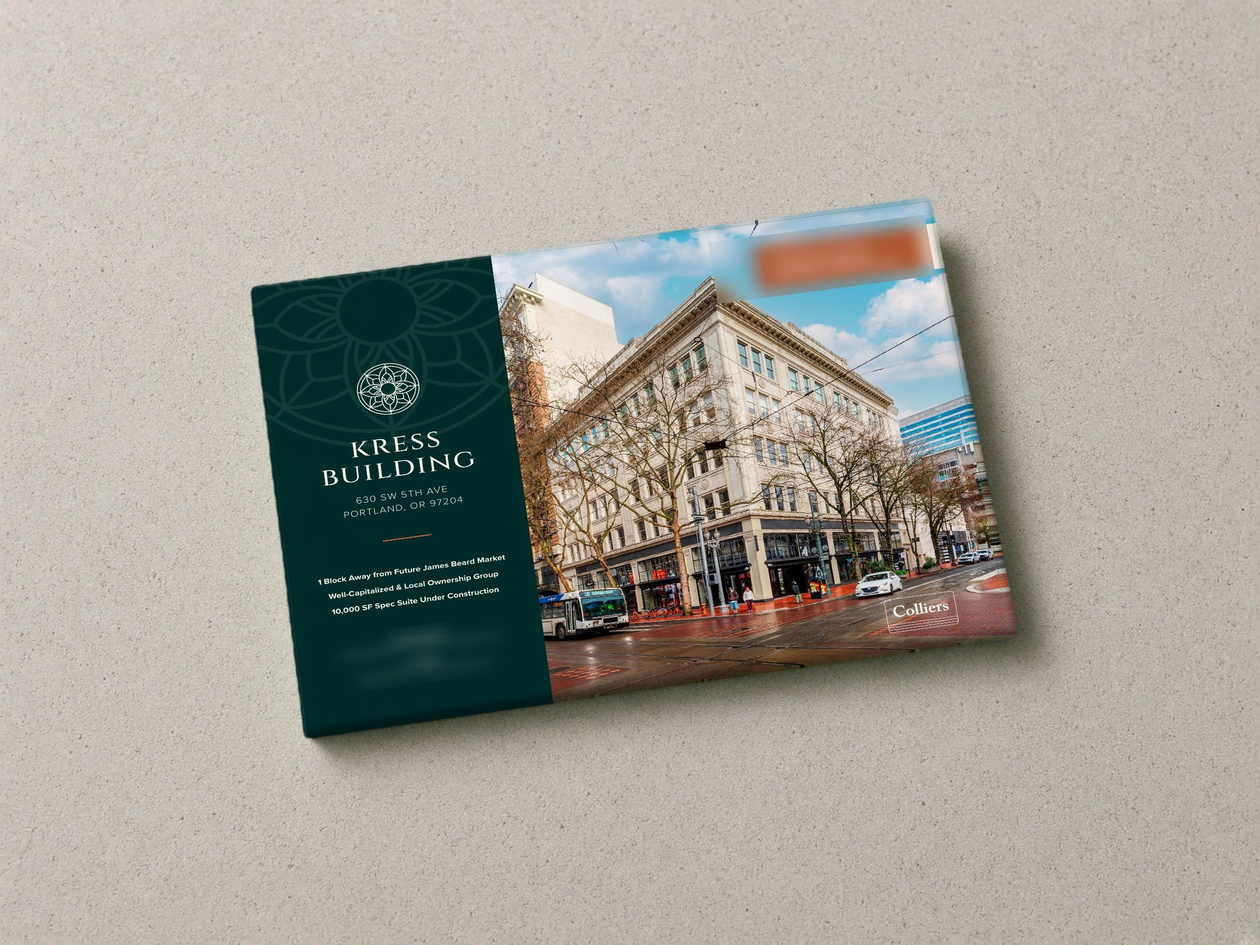
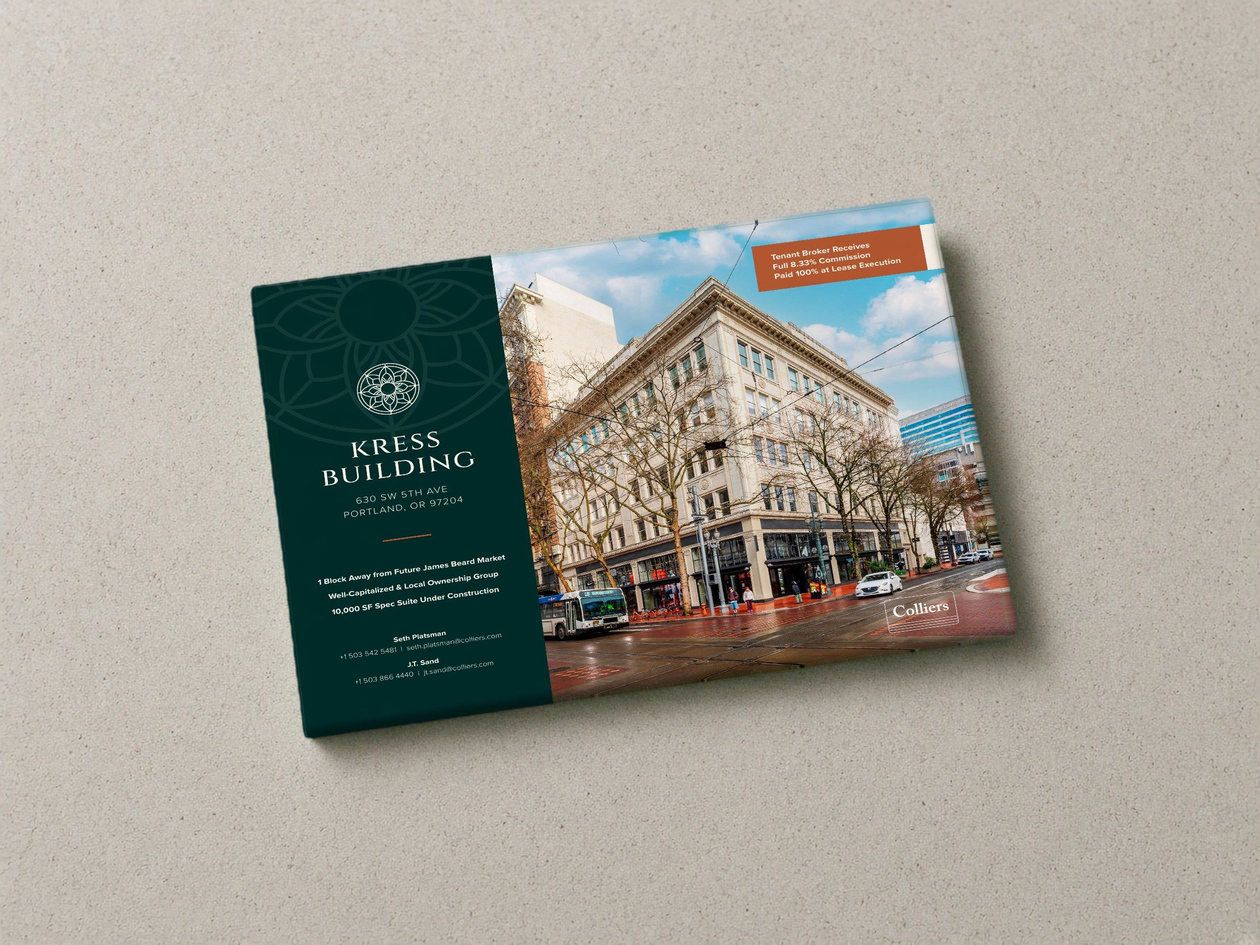
PDX West: Rodrigo's mockup as hero + card on cream; unblur front-page content site-wide (Kress, Pointe, PDX cover) per new rule: only financials confidential

Changed region(s): [[0.5625, 0.2188, 0.75, 0.3438], [0.2812, 0.6562, 0.375, 0.7188]]

diff --git a/work/pdx-west.html b/work/pdx-west.html
@@ -16,7 +16,7 @@
 <div class="g12"><h1 class="case-title t4 c1-8">PDX West Logistics Center</h1><p class="bl c8-13">A leasing flyer for a 938,000 SF Class A distribution building on Portland’s Airport Way.</p></div></section><div class="case-hero" data-name="Hero Mockup"><img src="../assets/img/pdx-west/hero.jpg" alt="PDX West Logistics Center — hero mockup" width="2304" height="1728" decoding="async"></div><section class="wrap case-meta" data-name="Meta"><div class="meta-row"><div><span class="mono-s muted">[Client]</span><span class="bm">Colliers <span class="muted"><span class="ph-t">[[</span>team — confirm<span class="ph-t">]]</span></span></span></div><div><span class="mono-s muted">[Type]</span><span class="bm">Leasing Flyer</span></div><div><span class="mono-s muted">[Location]</span><span class="bm">Portland, OR</span></div><div><span class="mono-s muted">[Year]</span><span class="bm">2026</span></div><div><span class="mono-s muted">[Role]</span><span class="bm"><span class="ph-t">[[</span>Lauren to confirm<span class="ph-t">]]</span></span></div></div></section><section class="dark psr" data-name="Project / Solution / Results">
 <div class="blk"><div class="lab"><span class="mono muted">[01]</span><span class="s">Project</span></div><div class="txt"><p class="s">PDX West Logistics Center is a planned 938,000 SF Class A, cross-loaded distribution building at NE Marine Drive and NE 33rd Drive — Airport Way’s largest available Class A industrial space, half a mile from Portland International Airport, breaking ground in spring 2027. Colliers and developer Capstone Partners needed a leasing flyer that could sell a building still on the drawing board to logistics and distribution tenants and the brokers who represent them: make the scale and specifications legible at a glance, prove the location, and look as considered as the Class A product it describes.</p></div></div>
 <div class="blk"><div class="lab"><span class="mono muted">[02]</span><span class="s">Solution</span></div><div class="txt"><p class="bl">A landscape flyer built on architectural renderings and aerial photography, cut through with oversized, translucent sage-green triangles and anchored by a heavy, wide all-caps display face for the PDX West wordmark and section titles. A restrained palette of sage, slate and white keeps ten information-dense pages calm and recognisably one family.</p><p class="bl">The story moves from the building outward: property highlights set out as a two-column specification sheet under a single headline claim, then the site plan, corporate neighbors, the Airport Way submarket, a location map, the regional logistics hubs, workforce statistics and a West Coast drive-time map. Each page pairs one strong image or map with one tight block of facts, so a broker can find clear height, dock doors, trailer stalls or drive distances in seconds.</p></div></div>
-<div class="blk"><div class="lab"><span class="mono muted">[03]</span><span class="s">Results</span></div><div class="txt"><p class="m"><span class="ph-t">[[</span>Placeholder: Outcome to be confirmed by Lauren / Colliers — do not invent metrics.<span class="ph-t">]]</span></p></div></div></section><section class="case-gallery white" data-name="Gallery"><div class="wrap cg8"><div class="cg-col"><div class="g-block"><div class="g-head"><h2 class="ci-h">Design system</h2></div><div class="gallery"><div class="swatches"><div class="col gap8"><div class="sw" style="background:#76A48E"></div><span class="mono-s">Sage</span><span class="mono-s muted">#76A48E</span></div><div class="col gap8"><div class="sw" style="background:#505F69"></div><span class="mono-s">Slate</span><span class="mono-s muted">#505F69</span></div><div class="col gap8"><div class="sw" style="background:#374B4E"></div><span class="mono-s">Deep Slate</span><span class="mono-s muted">#374B4E</span></div><div class="col gap8"><div class="sw" style="background:#ECF3F0"></div><span class="mono-s">Mist</span><span class="mono-s muted">#ECF3F0</span></div><div class="col gap8"><div class="sw" style="background:#FFFFFF"></div><span class="mono-s">White</span><span class="mono-s muted">#FFFFFF</span></div></div></div></div><div class="g-block"><div class="g-head"><h2 class="ci-h">The printed piece</h2></div><div class="gallery"><div class="g-row"><figure class="pic" style="flex:1.3333 1 0"><img src="../assets/img/pdx-west/mock_spread.jpg" alt="Three inside sheets of the printed flyer fanned out on a table" width="2304" height="1728" decoding="async"></figure><figure class="pic" style="flex:1.3333 1 0"><img src="../assets/img/pdx-west/card.jpg" alt="The printed flyer cover, with a second sheet underneath" width="2304" height="1728" decoding="async"></figure></div><div class="g-row"><figure class="pic" style="flex:1.2945 1 0"><img src="../assets/img/pdx-west/sheets/s01.jpg" alt="Front sheet" width="2000" height="1545" decoding="async"></figure><figure class="pic" style="flex:1.2945 1 0"><img src="../assets/img/pdx-west/sheets/s09.jpg" alt="Back sheet" width="2000" height="1545" decoding="async"></figure></div></div></div><div class="g-block"><div class="g-head"><h2 class="ci-h">Inside the flyer</h2><p class="bm muted">Nine sheets, in the order a tenant or broker reads them — the building, its specifications and site plan, the neighbors and submarket, then access, workforce and reach. Slide them off the stack.</p></div><div class="fb-stage ss-stage" data-name="Sheet stack"><div class="ss-wrap"><div class="ss" tabindex="0" role="group" aria-roledescription="sheet stack" aria-label="PDX West Logistics Center flyer sheets"><figure class="ss-sheet" style="--r:-1.6deg;--x:-10px;--y:6px;z-index:9"><img src="../assets/img/pdx-west/sheets/s01.jpg" alt="PDX West Logistics Center flyer — sheet 1" width="2000" height="1545" draggable="false"></figure><figure class="ss-sheet" style="--r:1.2deg;--x:12px;--y:-8px;z-index:8"><img src="../assets/img/pdx-west/sheets/s02.jpg" alt="PDX West Logistics Center flyer — sheet 2" width="2000" height="1545" draggable="false"></figure><figure class="ss-sheet" style="--r:-0.6deg;--x:-4px;--y:-12px;z-index:7"><img src="../assets/img/pdx-west/sheets/s03.jpg" alt="PDX West Logistics Center flyer — sheet 3" width="2000" height="1545" draggable="false"></figure><figure class="ss-sheet" style="--r:2.0deg;--x:8px;--y:10px;z-index:6"><img src="../assets/img/pdx-west/sheets/s04.jpg" alt="PDX West Logistics Center flyer — sheet 4" width="2000" height="1545" draggable="false"></figure><figure class="ss-sheet" style="--r:-2.2deg;--x:-14px;--y:2px;z-index:5"><img src="../assets/img/pdx-west/sheets/s05.jpg" alt="PDX West Logistics Center flyer — sheet 5" width="2000" height="1545" draggable="false"></figure><figure class="ss-sheet" style="--r:0.8deg;--x:4px;--y:12px;z-index:4"><img src="../assets/img/pdx-west/sheets/s06.jpg" alt="PDX West Logistics Center flyer — sheet 6" width="2000" height="1545" draggable="false"></figure><figure class="ss-sheet" style="--r:-1.0deg;--x:10px;--y:-4px;z-index:3"><img src="../assets/img/pdx-west/sheets/s07.jpg" alt="PDX West Logistics Center flyer — sheet 7" width="2000" height="1545" draggable="false"></figure><figure class="ss-sheet" style="--r:1.6deg;--x:-8px;--y:8px;z-index:2"><img src="../assets/img/pdx-west/sheets/s08.jpg" alt="PDX West Logistics Center flyer — sheet 8" width="2000" height="1545" draggable="false"></figure><figure class="ss-sheet" style="--r:-1.6deg;--x:-10px;--y:6px;z-index:1"><img src="../assets/img/pdx-west/sheets/s09.jpg" alt="PDX West Logistics Center flyer — sheet 9" width="2000" height="1545" draggable="false"></figure></div></div>
+<div class="blk"><div class="lab"><span class="mono muted">[03]</span><span class="s">Results</span></div><div class="txt"><p class="m"><span class="ph-t">[[</span>Placeholder: Outcome to be confirmed by Lauren / Colliers — do not invent metrics.<span class="ph-t">]]</span></p></div></div></section><section class="case-gallery white" data-name="Gallery"><div class="wrap cg8"><div class="cg-col"><div class="g-block"><div class="g-head"><h2 class="ci-h">Design system</h2></div><div class="gallery"><div class="swatches"><div class="col gap8"><div class="sw" style="background:#76A48E"></div><span class="mono-s">Sage</span><span class="mono-s muted">#76A48E</span></div><div class="col gap8"><div class="sw" style="background:#505F69"></div><span class="mono-s">Slate</span><span class="mono-s muted">#505F69</span></div><div class="col gap8"><div class="sw" style="background:#374B4E"></div><span class="mono-s">Deep Slate</span><span class="mono-s muted">#374B4E</span></div><div class="col gap8"><div class="sw" style="background:#ECF3F0"></div><span class="mono-s">Mist</span><span class="mono-s muted">#ECF3F0</span></div><div class="col gap8"><div class="sw" style="background:#FFFFFF"></div><span class="mono-s">White</span><span class="mono-s muted">#FFFFFF</span></div></div></div></div><div class="g-block"><div class="g-head"><h2 class="ci-h">The printed piece</h2></div><div class="gallery"><div class="g-row"><figure class="pic" style="flex:1.3333 1 0"><img src="../assets/img/pdx-west/mock_spread.jpg" alt="Three inside sheets of the printed flyer fanned out on a table" width="2304" height="1728" decoding="async"></figure><figure class="pic" style="flex:1.3333 1 0"><img src="../assets/img/pdx-west/mock_cover.jpg" alt="The printed flyer cover, with a second sheet underneath" width="2304" height="1728" decoding="async"></figure></div><div class="g-row"><figure class="pic" style="flex:1.2945 1 0"><img src="../assets/img/pdx-west/sheets/s01.jpg" alt="Front sheet" width="2000" height="1545" decoding="async"></figure><figure class="pic" style="flex:1.2945 1 0"><img src="../assets/img/pdx-west/sheets/s09.jpg" alt="Back sheet" width="2000" height="1545" decoding="async"></figure></div></div></div><div class="g-block"><div class="g-head"><h2 class="ci-h">Inside the flyer</h2><p class="bm muted">Nine sheets, in the order a tenant or broker reads them — the building, its specifications and site plan, the neighbors and submarket, then access, workforce and reach. Slide them off the stack.</p></div><div class="fb-stage ss-stage" data-name="Sheet stack"><div class="ss-wrap"><div class="ss" tabindex="0" role="group" aria-roledescription="sheet stack" aria-label="PDX West Logistics Center flyer sheets"><figure class="ss-sheet" style="--r:-1.6deg;--x:-10px;--y:6px;z-index:9"><img src="../assets/img/pdx-west/sheets/s01.jpg" alt="PDX West Logistics Center flyer — sheet 1" width="2000" height="1545" draggable="false"></figure><figure class="ss-sheet" style="--r:1.2deg;--x:12px;--y:-8px;z-index:8"><img src="../assets/img/pdx-west/sheets/s02.jpg" alt="PDX West Logistics Center flyer — sheet 2" width="2000" height="1545" draggable="false"></figure><figure class="ss-sheet" style="--r:-0.6deg;--x:-4px;--y:-12px;z-index:7"><img src="../assets/img/pdx-west/sheets/s03.jpg" alt="PDX West Logistics Center flyer — sheet 3" width="2000" height="1545" draggable="false"></figure><figure class="ss-sheet" style="--r:2.0deg;--x:8px;--y:10px;z-index:6"><img src="../assets/img/pdx-west/sheets/s04.jpg" alt="PDX West Logistics Center flyer — sheet 4" width="2000" height="1545" draggable="false"></figure><figure class="ss-sheet" style="--r:-2.2deg;--x:-14px;--y:2px;z-index:5"><img src="../assets/img/pdx-west/sheets/s05.jpg" alt="PDX West Logistics Center flyer — sheet 5" width="2000" height="1545" draggable="false"></figure><figure class="ss-sheet" style="--r:0.8deg;--x:4px;--y:12px;z-index:4"><img src="../assets/img/pdx-west/sheets/s06.jpg" alt="PDX West Logistics Center flyer — sheet 6" width="2000" height="1545" draggable="false"></figure><figure class="ss-sheet" style="--r:-1.0deg;--x:10px;--y:-4px;z-index:3"><img src="../assets/img/pdx-west/sheets/s07.jpg" alt="PDX West Logistics Center flyer — sheet 7" width="2000" height="1545" draggable="false"></figure><figure class="ss-sheet" style="--r:1.6deg;--x:-8px;--y:8px;z-index:2"><img src="../assets/img/pdx-west/sheets/s08.jpg" alt="PDX West Logistics Center flyer — sheet 8" width="2000" height="1545" draggable="false"></figure><figure class="ss-sheet" style="--r:-1.6deg;--x:-10px;--y:6px;z-index:1"><img src="../assets/img/pdx-west/sheets/s09.jpg" alt="PDX West Logistics Center flyer — sheet 9" width="2000" height="1545" draggable="false"></figure></div></div>
 <div class="fb-controls"><button class="fb-btn ss-prev" aria-label="Previous sheet">←</button><span class="mono fb-counter ss-counter" aria-live="polite">Sheet 01 / 09</span><button class="fb-btn ss-next" aria-label="Next sheet">→</button></div>
 <div class="fb-foot"><span class="mono-s muted fb-hint"><span class="hd">Click or drag the top sheet, or use the ← → keys</span><span class="hm">Swipe the sheet or tap the arrows</span></span></div><p class="mono-s ss-note">Confidential pages — pricing, financials, rent comps and broker contacts — are left out; contact details are blurred.</p></div></div></div></div></section><section class="case-next" data-name="Next Project"><div class="wrap cg8">
 <div class="cn-head"><h2 class="cn-title">Next Project</h2><a class="btn sec sm" href="../works.html">All Works <span aria-hidden="true">→</span></a></div>

diff --git a/_src/pdx_rodrigo_mockup.py b/_src/pdx_rodrigo_mockup.py
@@ -1,0 +1,71 @@
+"""PDX West hero + card from Rodrigo's mockup (Nov 23): standing flyer cover, tablet with Property Highlights, flat back sheet.
+Source (white studio background): /workspace/lauren-case-studies/mockups/pdx-west_rodrigo-mockup.png (1448x1086).
+- Nothing is blurred: per Rodrigo (Nov 23) only financials are confidential; broker contacts stay readable.
+- The white background becomes the cream surface used by flyer_mockups (same tone/texture as before): background and
+  shadow pixels are MULTIPLIED onto the cream (so the soft studio shadows carry over and anti-aliased edges composite
+  cleanly, no white halo); object pixels are kept as they are. Objects = saturated/dark pixels (holes filled) + hand-traced
+  polygons for the neutral parts (standing flyer page stack/easel, flat sheet with its white margin and page edge).
+Run: python3 _src/pdx_rodrigo_mockup.py   (also run at the end of flyer_mockups.pdx())"""
+import os, numpy as np, cv2
+from PIL import Image, ImageDraw, ImageFilter
+import flyer_mockups as F
+ROOT = F.ROOT
+SRC = '/workspace/lauren-case-studies/mockups/pdx-west_rodrigo-mockup.png'
+CONTACTS_TRACED = [[(128, 634), (566, 598), (568, 662), (130, 706)],      # standing cover: 3 broker blocks
+            [(450, 956), (968, 924), (970, 992), (452, 1014)]]     # flat back sheet: 3 broker blocks
+CONTACTS = []   # Nov 23, Rodrigo: front-page contacts are not confidential -> nothing blurred (traced quads kept above in case)
+STAND = [(47, 123), (30, 129), (31, 300), (27, 560), (27, 704), (66, 702), (73, 722), (85, 731), (100, 733), (140, 731), (140, 127)]
+FLAT = [(415, 709), (1194, 652), (1405, 989), (1404, 997), (425, 1053), (423, 1050)]
+BG = 253.0   # studio white level of the source
+
+def poly_mask(pts, size, ss=4):
+    m = Image.new('L', (size[0] * ss, size[1] * ss), 0)
+    ImageDraw.Draw(m).polygon([(x * ss, y * ss) for x, y in pts], fill=255)
+    return np.asarray(m.resize(size, Image.BOX), np.float32) / 255
+
+def blur_quads(im):
+    for q in CONTACTS:
+        xs, ys = [p[0] for p in q], [p[1] for p in q]
+        b = (min(xs) - 4, min(ys) - 4, max(xs) + 4, max(ys) + 4)
+        reg = im.crop(b); m = poly_mask([(x - b[0], y - b[1]) for x, y in q], reg.size)
+        panel = np.median(np.asarray(reg).reshape(-1, 3)[m.reshape(-1) > .5], 0)       # panel colour fills outside the quad
+        r = np.asarray(reg, np.float32) * m[..., None] + panel * (1 - m[..., None])
+        reg2 = Image.fromarray(r.astype(np.uint8))
+        small = reg2.resize((max(1, reg2.width // 24), max(1, reg2.height // 24)), Image.BILINEAR)
+        reg2 = small.resize(reg2.size, Image.BILINEAR).filter(ImageFilter.GaussianBlur(max(6, reg2.height // 6)))
+        mf = np.asarray(Image.fromarray((m * 255).astype(np.uint8)).filter(ImageFilter.GaussianBlur(1.2)), np.float32)[..., None] / 255
+        out = np.asarray(reg2, np.float32) * mf + np.asarray(reg, np.float32) * (1 - mf)
+        im.paste(Image.fromarray(out.astype(np.uint8)), b[:2])
+    return im
+
+def object_alpha(a):
+    mn, mx = a.min(2).astype(int), a.max(2).astype(int)
+    m = (((mx - mn) > 14) | (mn < 90)).astype(np.uint8) * 255
+    m = cv2.morphologyEx(m, cv2.MORPH_CLOSE, np.ones((7, 7), np.uint8))
+    ff = m.copy(); h, w = m.shape; cv2.floodFill(ff, np.zeros((h + 2, w + 2), np.uint8), (0, 0), 255); m = m | (~ff)
+    size = (w, h)
+    m = np.maximum(m.astype(np.float32) / 255, np.maximum(poly_mask(STAND, size), poly_mask(FLAT, size)))
+    m = cv2.erode((m > .5).astype(np.uint8), np.ones((3, 3), np.uint8)).astype(np.float32)
+    return cv2.GaussianBlur(m, (0, 0), 0.7)
+
+def compose(src, alpha, scale, center, seed=11, light=(0.35, 0.25)):
+    cv = np.asarray(F.surface(seed=seed, light=light), np.float32)
+    w, h = round(src.width * scale), round(src.height * scale)
+    s = np.asarray(src.resize((w, h), Image.LANCZOS), np.float32)
+    al = np.asarray(Image.fromarray((alpha * 255).astype(np.uint8)).resize((w, h), Image.LANCZOS), np.float32)[..., None] / 255
+    x0, y0 = round(center[0] - w / 2), round(center[1] - h / 2)
+    reg = cv[y0:y0 + h, x0:x0 + w]
+    mult = reg * np.clip(s / BG, 0, 1)
+    cv[y0:y0 + h, x0:x0 + w] = s * al + mult * (1 - al)
+    return Image.fromarray(np.clip(cv, 0, 255).astype(np.uint8))
+
+def main():
+    src = blur_quads(Image.open(SRC).convert('RGB'))
+    alpha = object_alpha(np.asarray(src))
+    # hero: the case hero shows a wide central band (~58% of the height at desktop), so keep all three objects inside it
+    F.out(compose(src, alpha, 0.93, (1152, 880)), 'pdx-west', 'hero.jpg')
+    # card (4:3, shown whole on Home / Works / Next Project): Kress-like breathing room
+    F.out(compose(src, alpha, 1.36, (1152, 864), seed=3, light=(0.3, 0.2)), 'pdx-west', 'card.jpg')
+    return src, alpha
+
+if __name__ == '__main__': main()

diff --git a/_src/build.py b/_src/build.py
@@ -349,7 +349,7 @@ def pdx_blocks(r):
         return '<div class="g-row">' + ''.join(pic(I + f, a, r, size(I + f)[0] / size(I + f)[1]) for f, a in fs) + '</div>'
     sw = ''.join(f'<div class="col gap8"><div class="sw" style="background:{h}"></div><span class="mono-s">{n}</span><span class="mono-s muted">{h}</span></div>' for n, h in PDX_PAL)
     return (gsec(f'<div class="gallery"><div class="swatches">{sw}</div></div>', 'Design system')
-            + gsec(f'<div class="gallery">{row(("mock_spread.jpg", "Three inside sheets of the printed flyer fanned out on a table"), ("card.jpg", "The printed flyer cover, with a second sheet underneath"))}{row(("sheets/s01.jpg", "Front sheet"), ("sheets/s09.jpg", "Back sheet"))}</div>', 'The printed piece')
+            + gsec(f'<div class="gallery">{row(("mock_spread.jpg", "Three inside sheets of the printed flyer fanned out on a table"), ("mock_cover.jpg", "The printed flyer cover, with a second sheet underneath"))}{row(("sheets/s01.jpg", "Front sheet"), ("sheets/s09.jpg", "Back sheet"))}</div>', 'The printed piece')
             + gsec(sheet_stack('pdx-west', 'PDX West Logistics Center', 9, r, LOG['pdx-west']['note']), 'Inside the flyer', 'Nine sheets, in the order a tenant or broker reads them — the building, its specifications and site plan, the neighbors and submarket, then access, workforce and reach. Slide them off the stack.'))
 
 def case(p):
@@ -385,7 +385,7 @@ if __name__ == '__main__':
     home(); works(); about(); contact()
     for p in ALL: case(p)
     md = ['# Confidentiality log (generated by _src/build.py from _src/confidentiality.py)\n',
-          'Rule: leave anything confidential out; if leaving it out would look bad, blur it. The site is PUBLIC (GitHub Pages), marked noindex.\n']
+          'Rule: leave anything confidential out; if leaving it out would look bad, blur it. The site is PUBLIC (GitHub Pages), marked noindex.\n\n**Updated rule (Rodrigo, Nov 23):** "Anything in the front pages is not confidential. Confidential means financials." Covers, thumbnails and hero mockups are shown unblurred (contacts, headlines, addresses, broker strips). Only financial data (pricing, rents, rent comps, operating figures, taxes, deal financials such as Madison section 03) stays blurred or omitted. Interior pages blurred only for contacts are listed below and wait for confirmation.\n']
     for slug, d in LOG.items():
         md.append(f"## {BY[slug]['title'] if slug in BY else slug}\n")
         md.append('- **Blurred:** ' + ('; '.join(d.get('blurred') or []) or 'nothing') )

diff --git a/_src/confidentiality.py b/_src/confidentiality.py
@@ -5,10 +5,10 @@ Rule (Rodrigo): leave anything confidential out; if leaving it out would look ba
 STD = 'Confidential pages — pricing, financials, rent comps and broker contacts — are left out; contact details are blurred.'
 LOG = {
  'pdx-west': dict(note=STD,
-    blurred=['p01 cover: broker names/phones/emails strip (sheet stack, printed piece and the card thumbnail)'],
-    omitted=['page 10 back cover: broker names, phones and emails + disclaimer (no pricing, financials or rent comps anywhere in the flyer)'], mockup='self-made flyer mockups (hero, card, fanned sheets) are built from the blurred sheets'),
+    blurred=['none — Nov 23: cover broker strip unblurred (sheet stack, printed piece); Rodrigo\'s hero/card mockup shown with contacts readable (front pages are not confidential)'],
+    omitted=['page 10 back cover: broker names, phones and emails + disclaimer (no pricing, financials or rent comps anywhere in the flyer)'], mockup='hero + card = Rodrigo\'s mockup on the cream surface (unblurred); printed piece = self-made mockups from the sheets'),
  'kress-building': dict(note=STD,
-    blurred=['p01 cover: commission callout + broker contacts','p02: "$28/SF FSG" rent figure','hero mockup: commission callout + contacts'],
+    blurred=['p02: "$28/SF FSG" rent figure (Nov 23: p01 cover + hero mockup unblurred — commission callout and broker contacts are front-page content)'],
     omitted=['page 05','pages 07–08 floor plans carrying the $28/SF FSG rate','page 10 broker contacts']),
  'nomad': dict(note='Confidential chapters — pricing, financials, rent comps and broker contacts — are left out.',
     blurred=['none (Rodrigo: "remove the blur" on the flip-book pages)'],
@@ -26,7 +26,7 @@ LOG = {
     blurred=['p01 cover: "75 Sites | 100% Occupied | $1,035 Avg. Rent" line (also blurred on the hero mockup)'],
     omitted=['pages 04, 05, 07 (summary/offering text)','pages 13–15 financials','page 17 comps','pages 19–20 statistics','page 21 rent-control text','page 22 contacts']),
  'pointe-at-bridgeport': dict(note=STD,
-    blurred=['p01 cover: broker contacts strip (also blurred on the hero mockup)'],
+    blurred=['none — Nov 23: p01 cover broker strip + hero mockup unblurred (front page)'],
     omitted=['pages 5–6 demographics','page 9 broker contacts']),
  'portland-office-market-report': dict(note='Data pages (statistics, sale prices, tenants) are left out of this portfolio.',
     blurred=[], omitted=['pages 03–16 market data and sales']),

diff --git a/_src/flyer_mockups.py b/_src/flyer_mockups.py
@@ -1,7 +1,6 @@
 """Self-made flyer mockups (no stock): thin printed sheets on a textured surface, with lifted corners and soft shadows.
 Run: python3 _src/flyer_mockups.py   (needs assets/img/<slug>/sheets/sNN.jpg from flyer_sheets.py; cover contacts already blurred)
-Writes for PDX West: hero.jpg (2304x1728, key content inside the 16:9 band the hero shows), card.jpg (Kress-style
-thumbnail) and mock_spread.jpg (three inside sheets fanned out, for 'The printed piece')."""
+Writes for PDX West: mock_cover.jpg (cover sheet with a second sheet under it) and mock_spread.jpg (three inside sheets fanned out, for 'The printed piece')."""
 import os, math, numpy as np
 from PIL import Image, ImageDraw, ImageFilter
 ROOT = os.path.dirname(os.path.dirname(os.path.abspath(__file__)))
@@ -99,22 +98,19 @@ def out(im, slug, name): p = os.path.join(ROOT, 'assets', 'img', slug, name); im
 
 def pdx():
     S = sheets('pdx-west')
-    # hero: cover on top of the property-highlights sheet; content kept inside the central 16:9 band
-    cv = surface(seed=11, light=(0.35, 0.25))
-    place(cv, S[1], rect(1300, 820, 1120, -7), shadow=.8)
-    place(cv, S[0], rect(1050, 880, 1180, 3.5), lift_corner=2, lift=34)
-    out(cv, 'pdx-west', 'hero.jpg')
+    # hero.jpg + card.jpg: Rodrigo's mockup, composited onto the cream surface by pdx_rodrigo_mockup.py (Nov 23)
     # card: Kress framing, single thin cover with a lifted corner and a second sheet peeking underneath
     k = W / 1024
     cv = surface(seed=3)
     place(cv, S[1], rect(498 * k, 372 * k, 540 * k, 3.0), shadow=.6)
     place(cv, S[0], rect(532 * k, 400 * k, 565 * k, -6.5), lift_corner=2, lift=42)
-    out(cv, 'pdx-west', 'card.jpg')
+    out(cv, 'pdx-west', 'mock_cover.jpg')   # printed piece; card.jpg + hero.jpg now come from pdx_rodrigo_mockup.py
     # printed piece: three inside sheets fanned out
     cv = surface(seed=21, light=(0.5, 0.2))
     place(cv, S[2], rect(700, 930, 1040, -7), shadow=.8)
     place(cv, S[7], rect(1610, 930, 1040, 7), shadow=.8)
     place(cv, S[4], rect(1155, 870, 1180, 1.5), lift_corner=2, lift=30)
     out(cv, 'pdx-west', 'mock_spread.jpg')
+    import pdx_rodrigo_mockup; pdx_rodrigo_mockup.main()   # Rodrigo's mockup (Nov 23) replaces hero.jpg + card.jpg
 
 if __name__ == '__main__': pdx()

diff --git a/_src/images.py b/_src/images.py
@@ -40,8 +40,10 @@ def page(folder, n):
     raise FileNotFoundError(folder+str(n))
 
 # slug: (pdf folder, hero mockup, [(page, blur boxes)])
+# Rule (Rodrigo, Nov 23): front-page/cover content (contacts, headlines, addresses, broker strips) is NOT confidential;
+# only financial data (pricing, rents, rent comps, operating figures, taxes, deal financials) is blurred or omitted.
 RE={
- 'kress-building':('kress-building','kress-building_brochure.jpg',[(1,[(0.725,0.05,0.982,0.163),(0.035,0.805,0.32,0.92)]),(2,[(0.068,0.866,0.175,0.897)]),(3,[]),(4,[]),(6,[]),(9,[])]),
+ 'kress-building':('kress-building','kress-building_brochure.jpg',[(1,[]),(2,[(0.068,0.866,0.175,0.897)]),(3,[]),(4,[]),(6,[]),(9,[])]),
  'pdx-west':('pdx-west-flyer',None,[]),  # sheets: _src/flyer_sheets.py; hero, card, mock_spread: _src/flyer_mockups.py
  'the-grid':('kirkland-405-brand','the-grid_lobby-sign.jpg',[(i,[]) for i in range(1,9)]),
  'pacific-center':('pacific-center-flyer','pacific-center_poster.jpg',[(i,[]) for i in range(1,6)]),
@@ -49,7 +51,7 @@ RE={
  'madison-plaza':('madison-plaza-om','madison-plaza_om-cover.jpg',[]),  # page gallery replaced by the Nomad-style book: see _src/madison_book.py
  'redmond-gateway':('redmond-assemblage-om','redmond-gateway_om-stack.jpg',[(1,[]),(2,[]),(6,[(0.035,0.24,0.315,0.43)]),(7,[(0.035,0.24,0.315,0.43)]),(14,[]),(15,[])]),  # parcel text names owners + lease dates -> blurred),
  'springwood':('springwood-om','springwood_om-cover.jpg',[(1,[(0.581,0.894,0.938,0.927)]),(2,[]),(3,[]),(6,[]),(8,[]),(9,[]),(10,[]),(11,[]),(12,[]),(16,[]),(18,[])]),
- 'pointe-at-bridgeport':('the-pointe-bridgeport','the-pointe_flyer-stack.jpg',[(1,[(0.049,0.852,0.557,0.941)]),(2,[]),(3,[]),(4,[]),(7,[]),(8,[])]),
+ 'pointe-at-bridgeport':('the-pointe-bridgeport','the-pointe_flyer-stack.jpg',[(1,[]),(2,[]),(3,[]),(4,[]),(7,[]),(8,[])]),
  'portland-office-market-report':('portland-office-report-q1-2026','portland-office-report_laptop.jpg',[(1,[]),(2,[])]),
 }
 NOMAD_FLIP=['p00_cover.jpg','page-03_L.jpg','page-03_R.jpg','page-07_L.jpg','page-07_R.jpg','page-10_L.jpg','page-10_R.jpg','page-11_L.jpg','page-11_R.jpg','page-12_L.jpg','page-12_R.jpg','page-15_L.jpg','page-15_R.jpg','page-17_L.jpg','page-19_R.jpg','page-22_L.jpg','page-22_R.jpg']

diff --git a/_src/flyer_sheets.py b/_src/flyer_sheets.py
@@ -6,7 +6,7 @@ import os, subprocess, tempfile, glob
 from PIL import Image
 from images import save, blur
 FLYERS = {'leftbank': ('/workspace/lauren-case-studies/source/extracted/Leftbank_Flyer.pdf', range(1, 7), {}),
-          'pdx-west': ('/workspace/lauren-case-studies/source/extracted/PDXWestFlyer_For Lease.pdf', range(1, 10), {1: [(0.039, 0.843, 0.586, 0.932)]})}  # PDX p10 = broker contacts -> omitted; p1 contacts blurred  # slug: (pdf, pages, {page: blur boxes})
+          'pdx-west': ('/workspace/lauren-case-studies/source/extracted/PDXWestFlyer_For Lease.pdf', range(1, 10), {})}  # PDX p10 = broker contacts -> omitted; p1 broker strip unblurred Nov 23 (front pages not confidential)  # slug: (pdf, pages, {page: blur boxes})
 def main():
     for slug, (pdf, pages, boxes) in FLYERS.items():
         with tempfile.TemporaryDirectory() as d:

diff --git a/AI-HANDOFF.md b/AI-HANDOFF.md
@@ -66,11 +66,18 @@ Read this first if you are an AI assistant (Claude, ChatGPT, Cursor, etc.) conti
 - Swatches: #76A48E Sage, #505F69 Slate, #374B4E Deep Slate, #ECF3F0 Mist, #FFFFFF White.
 - There is no signage for PDX West; it is a leasing flyer only. Don't mention signs or billboards in its copy or alt text.
 - Mockups are all self-made by `_src/flyer_mockups.py` from the already-blurred sheets, with no stock and no props. The pen was removed on Nov 20 because it looked fake. Each sheet is one exact perspective warp rendered at 4× and downsampled with LANCZOS. The source is edge-padded, so the anti-aliased edge keeps the artwork's own colour: no rim, fringe or seams. Shadows are multiply layers (ambient, contact and two soft offsets, with the light from the top-left). A raised corner is suggested only through light and shadow. The beige surface is procedural.
-  - `hero.jpg`: the cover on top of the property-highlights sheet, on beige. 2304×1728; the key content sits inside the 16:9 band that the hero crop shows.
+  - `hero.jpg` + `card.jpg` (Nov 23): Rodrigo's own mockup (standing cover, tablet with Property Highlights, flat back sheet), source `/workspace/lauren-case-studies/mockups/pdx-west_rodrigo-mockup.png`. `_src/pdx_rodrigo_mockup.py` puts it on the cream surface. Nothing is blurred: contacts are readable per the Nov 23 rule; the traced contact quads are kept as `CONTACTS_TRACED`. Background and shadow pixels are multiplied onto the cream, so the studio shadows carry over and the edges have no white halo. Object pixels are kept as they are. The object mask is saturated or dark pixels with the holes filled, plus traced polygons for the standing pad's page stack and easel and for the flat sheet. In the hero, the objects sit inside the wide central band the case-hero crop shows (about 58% of the height). In the card (4:3, shown whole), they fill about 86% of the width. If Rodrigo sends a new version of this mockup, re-trace `STAND`/`FLAT` in that script.
   - `mock_spread.jpg` (The printed piece): three inside sheets (site plan, submarket, building) fanned out.
-  - `card.jpg`: Kress framing; one thin cover sheet with a lifted corner and a second sheet peeking out underneath.
-- The printed piece: mock_spread + card, then the flat front sheet (s01) and back sheet (s09).
+  - `mock_cover.jpg` (The printed piece; this was the card until Nov 23): one thin cover sheet with a lifted corner and a second sheet peeking out underneath.
+- The printed piece: mock_spread + mock_cover, then the flat front sheet (s01) and back sheet (s09).
 - Sheet stack shows PDF pages 1–9; page 1's broker strip is blurred. Page 10 (back cover with broker contacts) is omitted.
 - `flyer_sheets.py` re-runs `flyer_mockups.pdx()` after rendering the sheets.
 - Project and Solution copy is written from the flyer (no rents, prices or deal figures). Results stays `[[ ]]`.
 - `sheet_stack(..., note)` prints the confidentiality line under the stack. Leftbank and PDX pass `LOG[slug]['note']` (the STD text).
+
+## Confidentiality rule change (Rodrigo, Nov 23)
+- Rodrigo: "Anything in the front pages is not confidential. Confidential means financials."
+- Covers, thumbnails, cards and hero mockups are shown unblurred: contacts, headlines, addresses, broker strips and the Kress commission callout. Done in `/workspace/mk/run.py` (Kress, Pointe mockups), `_src/images.py` (Kress/Pointe p01), `_src/flyer_sheets.py` (PDX s01) and `_src/pdx_rodrigo_mockup.py`.
+- Still blurred or omitted, because it's financial: Kress p02 "$28/SF FSG"; the Springwood cover "$1,035 Avg. Rent" line (cover and hero); Madison section 03 and its financial blurs; omitted rent, comp and financial pages everywhere.
+- Interior blurs that cover only contacts or names are unchanged and waiting for Rodrigo to confirm: Madison p02 and back cover broker contacts, and Redmond p03/p04 owner names and lease dates.
+- The STD stack disclaimer ("...contact details are blurred.") is Rodrigo's verbatim wording and is still printed under the PDX and Leftbank stacks. It is not accurate any more, so wait for his call before changing it.

diff --git a/CONFIDENTIALITY.md b/CONFIDENTIALITY.md
@@ -2,14 +2,16 @@
 
 Rule: leave anything confidential out; if leaving it out would look bad, blur it. The site is PUBLIC (GitHub Pages), marked noindex.
 
+**Updated rule (Rodrigo, Nov 23):** "Anything in the front pages is not confidential. Confidential means financials." Covers, thumbnails and hero mockups are shown unblurred (contacts, headlines, addresses, broker strips). Only financial data (pricing, rents, rent comps, operating figures, taxes, deal financials such as Madison section 03) stays blurred or omitted. Interior pages blurred only for contacts are listed below and wait for confirmation.
+
 ## PDX West Logistics Center
 
-- **Blurred:** p01 cover: broker names/phones/emails strip (sheet stack, printed piece and the card thumbnail)
+- **Blurred:** none — Nov 23: cover broker strip unblurred (sheet stack, printed piece); Rodrigo's hero/card mockup shown with contacts readable (front pages are not confidential)
 - **Omitted:** page 10 back cover: broker names, phones and emails + disclaimer (no pricing, financials or rent comps anywhere in the flyer)
 
 ## Kress Building
 
-- **Blurred:** p01 cover: commission callout + broker contacts; p02: "$28/SF FSG" rent figure; hero mockup: commission callout + contacts
+- **Blurred:** p02: "$28/SF FSG" rent figure (Nov 23: p01 cover + hero mockup unblurred — commission callout and broker contacts are front-page content)
 - **Omitted:** page 05; pages 07–08 floor plans carrying the $28/SF FSG rate; page 10 broker contacts
 
 ## Nomad
@@ -49,7 +51,7 @@ Rule: leave anything confidential out; if leaving it out would look bad, blur it
 
 ## The Pointe at Bridgeport
 
-- **Blurred:** p01 cover: broker contacts strip (also blurred on the hero mockup)
+- **Blurred:** none — Nov 23: p01 cover broker strip + hero mockup unblurred (front page)
 - **Omitted:** pages 5–6 demographics; page 9 broker contacts
 
 ## Portland Office Market Report Q1 2026
